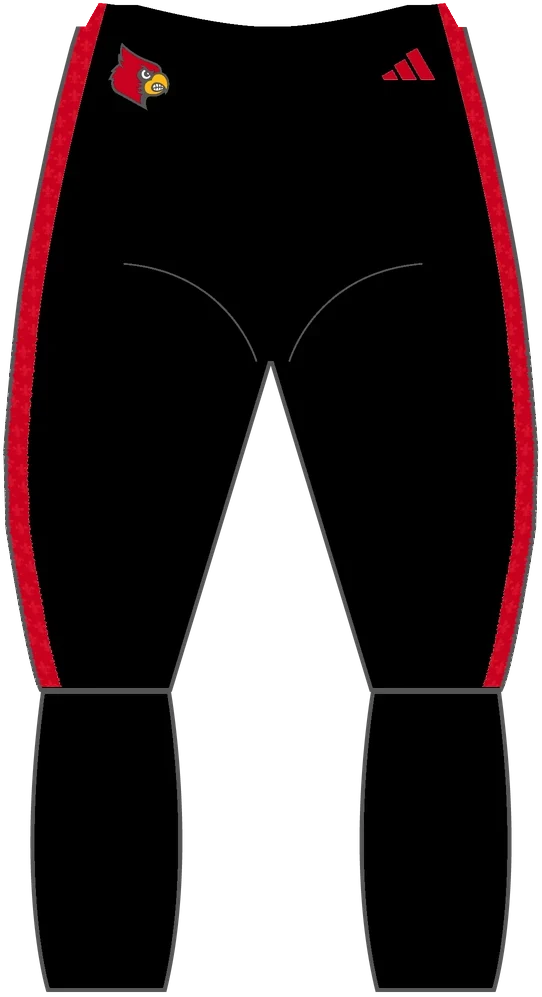
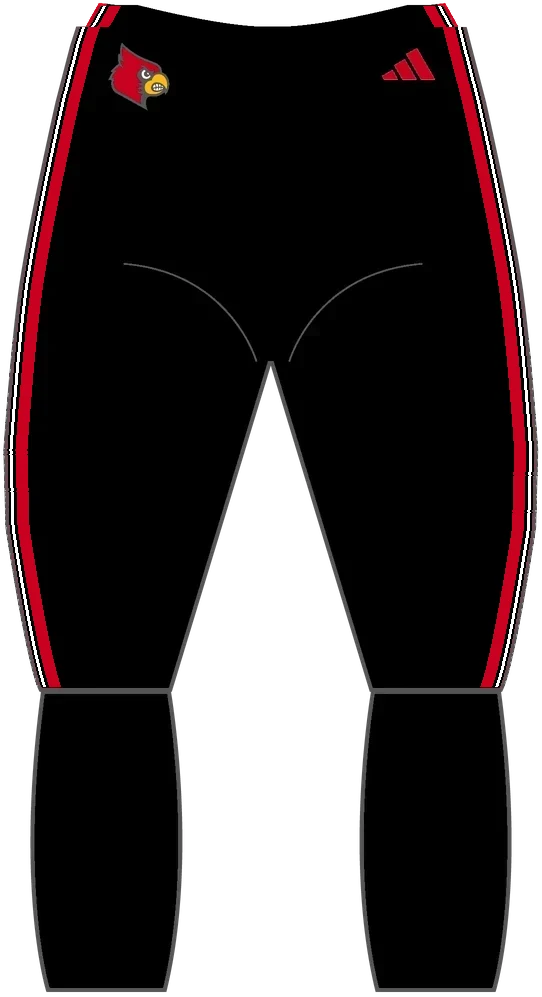
Match the 2026 pant stripes to the game photos
Each 2026 leg carries a thin stripe, a gap of pants color and a wider
stripe, waistband to hem: black and white on red, black and red on white,
white and red on black. Set in BANDS (3D) and redrawn in the panel art by
tools/pants_panels.py.

Claude-Session: https://claude.ai/code/session_01Cn7A5wwhiT3dYtk1tYmEhf

Changed region(s): [[0.7675, 0.0, 1.0, 0.7151], [0.0, 0.0, 0.2362, 0.6841]]

diff --git a/src/uniform-art.js b/src/uniform-art.js
@@ -555,14 +555,14 @@ export const ART = {
    "socks": "#C9001F",
    "bands": [
     {
-     "at": 0.0107,
-     "w": 0.0329,
-     "color": "#FFFFFF"
+     "at": -0.011,
+     "w": 0.01,
+     "color": "#000000"
     },
     {
-     "at": -0.0105,
-     "w": 0.0094,
-     "color": "#000000"
+     "at": 0.024,
+     "w": 0.04,
+     "color": "#FFFFFF"
     }
    ],
    "bandEnd": 1.0,
@@ -577,13 +577,13 @@ export const ART = {
    "socks": "#FFFFFF",
    "bands": [
     {
-     "at": 0.0107,
-     "w": 0.0567,
+     "at": -0.011,
+     "w": 0.01,
      "color": "#000000"
     },
     {
-     "at": 0.0107,
-     "w": 0.0447,
+     "at": 0.024,
+     "w": 0.04,
      "color": "#C9001F"
     }
    ],
@@ -599,14 +599,14 @@ export const ART = {
    "socks": "#000000",
    "bands": [
     {
-     "at": 0.0107,
-     "w": 0.0447,
-     "color": "#C9001F"
+     "at": -0.011,
+     "w": 0.01,
+     "color": "#FFFFFF"
     },
     {
-     "at": -0.0164,
-     "w": 0.0094,
-     "color": "#FFFFFF"
+     "at": 0.024,
+     "w": 0.04,
+     "color": "#C9001F"
     }
    ],
    "bandEnd": 1.0,

diff --git a/tools/pants_panels.py b/tools/pants_panels.py
@@ -1,14 +1,17 @@
 #!/usr/bin/env python3
-"""Run the 2026 pants' side panels down to the hem in the panel art.
+"""Redraw the 2026 pants' side stripes in the panel art to match the field.
 
-The design draws the 2026 side panels stopping partway down the thigh, cut
-at an angle; on the field (and on the 3D player, PANEL_END in
-prepare-uniforms.py) they run the full outside seam, waistband to hem. This
-copies the panel's rows from the thigh, where the drawing has it at full
-width, down the outer edge of each leg to the sock line.
+The design draws the 2026 side panels as one wide stripe that stops partway
+down the thigh, cut at an angle. In Doc's game photos (2026-10-05) each leg
+carries a thin stripe, a gap of pants color, then a wider stripe, running the
+full outside seam from waistband to hem: black and white on red, black and red
+on white, white and red on black. The 3D player draws the same from BANDS and
+PANEL_END in prepare-uniforms.py. This repaints the strip just inside each
+leg's outline, down to the sock line, in that pattern.
 
-prepare-uniforms.py calls extend_panels() for the pants in PANEL_END. Run
-this file directly to patch the WebPs already in assets/uni/:
+prepare-uniforms.py calls draw_panels() for the pants in STRIPES. Run this
+file directly to patch the WebPs already in assets/uni/ (it only overwrites
+the strip, so running it again changes nothing):
 
     python3 tools/pants_panels.py
 
@@ -20,46 +23,58 @@ import numpy as np
 from PIL import Image
 
 ROOT = Path(__file__).resolve().parent.parent
-NAMES = ['pants-red', 'pants-white', 'pants-black']
+# Pants color, thin stripe, wide stripe.
+STRIPES = {
+    'pants-red': ('#C9001F', '#000000', '#FFFFFF'),
+    'pants-white': ('#FFFFFF', '#000000', '#C9001F'),
+    'pants-black': ('#000000', '#FFFFFF', '#C9001F'),
+}
+# Inward from the leg's outer edge, in pixels of the 542 px wide panel art:
+# the outline, a sliver of pants color, the thin stripe, the gap and the wide
+# stripe, then pants color over what is left of the drawn panel.
+WIDTHS = (4, 2, 3, 3, 12, 3)
 
 
-def extend_panels(img):
-    """Returns a copy of the front-view pants art with each side panel
-    continued from the thigh to the sock line."""
+def rgb(h):
+    return np.array([int(h[i:i + 2], 16) for i in (1, 3, 5)], dtype=np.int16)
+
+
+def draw_panels(img, colors):
+    """Returns a copy of the front-view pants art with each side stripe
+    repainted as `colors` (pants, thin, wide), waistband to sock line."""
+    base, thin, wide = (rgb(c) for c in colors)
     a = np.array(img.convert('RGBA')).astype(np.int16)
     h, w = a.shape[:2]
-    base = np.median(a[int(h * 0.12):int(h * 0.25), int(w * 0.42):int(w * 0.58), :3].reshape(-1, 3), axis=0)
-    k = int(w * 0.11)  # strip width copied from the edge inward: outline, panel and some pants color
-    ref = list(range(int(h * 0.26), int(h * 0.34)))  # rows where the drawn panel is full width
+    k = w / 542
+    o, lead, t, g, s, pad = (max(1, round(v * k)) for v in WIDTHS)
+    pattern = [base] * lead + [thin] * t + [base] * g + [wide] * s + [base] * pad
     out = a.copy()
+
+    def edge(y, side):
+        alpha = a[y, :, 3] > 128
+        if not alpha.any():
+            return None
+        return int(np.argmax(alpha)) if side == 1 else w - 1 - int(np.argmax(alpha[::-1]))
+
     for side in (1, -1):
-        def edge(y):
-            alpha = a[y, :, 3] > 128
-            if not alpha.any():
-                return None
-            return int(np.argmax(alpha)) if side == 1 else w - 1 - int(np.argmax(alpha[::-1]))
-
-        def strip(y):
-            x = edge(y)
-            return a[y, x:x + k] if side == 1 else a[y, x - k + 1:x + 1][::-1]
-
-        strips = [strip(y) for y in ref]
         # Sock line: the first row below mid-leg where the pants color gives
         # way to the outline across the leg.
-        probe = int(w * 0.07)
-        sock = next(y for y in range(int(h * 0.6), h) if edge(y) is not None
-                    and np.abs(a[y, edge(y) + side * probe, :3] - base).max() > 40)
-        for i, y in enumerate(range(ref[-1] + 1, sock - 1)):
-            x = edge(y)
-            s = strips[i % len(strips)]
-            cols = np.arange(x, x + k) if side == 1 else np.arange(x, x - k, -1)
-            inside = a[y, cols, 3] > 128
-            out[y, cols[inside]] = s[inside]
+        probe = round(38 * k)
+        sock = next(y for y in range(int(h * 0.6), h) if edge(y, side) is not None
+                    and np.abs(a[y, edge(y, side) + side * probe, :3] - base).max() > 40)
+        for y in range(round(6 * k), sock - 1):
+            x = edge(y, side)
+            if x is None:
+                continue
+            for i, c in enumerate(pattern):
+                xx = x + side * (o + i)
+                if 0 <= xx < w and a[y, xx, 3] > 128:
+                    out[y, xx, :3] = c
     return Image.fromarray(out.clip(0, 255).astype(np.uint8), 'RGBA')
 
 
 if __name__ == '__main__':
-    for name in NAMES:
+    for name, colors in STRIPES.items():
         path = ROOT / 'assets' / 'uni' / f'{name}.webp'
-        extend_panels(Image.open(path)).save(path, 'WEBP', quality=88, method=6)
-        print('extended', path.relative_to(ROOT))
+        draw_panels(Image.open(path), colors).save(path, 'WEBP', quality=88, method=6)
+        print('redrew', path.relative_to(ROOT))

diff --git a/tools/prepare-uniforms.py b/tools/prepare-uniforms.py
@@ -21,8 +21,8 @@ import numpy as np
 from PIL import Image, ImageDraw, ImageFilter
 
 sys.path.insert(0, str(Path(__file__).parent))
-from palette import BLACK, RED, snap  # noqa: E402
-from pants_panels import extend_panels  # noqa: E402
+from palette import BLACK, RED, WHITE, snap  # noqa: E402
+from pants_panels import STRIPES, draw_panels  # noqa: E402
 
 SRC = Path(sys.argv[1] if len(sys.argv) > 1 else 'uni-src')
 ROOT = Path(__file__).resolve().parent.parent
@@ -63,11 +63,17 @@ PANTS = ['pants-red', 'pants-white', 'pants-black', 'pants-red-script', 'pants-w
 # bottom of the pants, when game photos disagree with the drawing: the 2026
 # stripes run the full outside seam, waistband to hem (1.0 = no cut).
 PANEL_END = {'pants-red': 1.0, 'pants-white': 1.0, 'pants-black': 1.0}
-# Stripes set by hand instead of read from the art: Doc's red stripe with a
-# thin black edge on both sides for the white 2026 pants (meters; drawn in
-# order, so the black band sits under the red one).
-BANDS = {'pants-white': [{'at': 0.0107, 'w': 0.0567, 'color': BLACK},
-                         {'at': 0.0107, 'w': 0.0447, 'color': RED}]}
+# Stripes set by hand instead of read from the art (meters from the outer
+# seam, + toward the front): the 2026 pants carry a thin stripe, a gap of
+# pants color, then a wider stripe in front of it (black and white on red,
+# black and red on white, white and red on black), as in Doc's game photos
+# (2026-10-05).
+BANDS = {'pants-red': [{'at': -0.011, 'w': 0.01, 'color': BLACK},
+                       {'at': 0.024, 'w': 0.04, 'color': WHITE}],
+         'pants-white': [{'at': -0.011, 'w': 0.01, 'color': BLACK},
+                         {'at': 0.024, 'w': 0.04, 'color': RED}],
+         'pants-black': [{'at': -0.011, 'w': 0.01, 'color': WHITE},
+                         {'at': 0.024, 'w': 0.04, 'color': RED}]}
 SOCKS = ['socks-red', 'socks-white', 'socks-black', 'socks-gray',
          'socks-red-20', 'socks-white-20', 'socks-black-20', 'socks-gray-20']
 SHOES = ['shoes-black', 'shoes-white', 'shoes-red', 'shoes-gray']
@@ -288,8 +294,8 @@ for name in PANTS:
     cand = drop_edge_components(cand, edge_band(a, 14))
     logos = cutout(a, base, cand, 50).crop((0, 0, w, 600))
     save_webp(logos, f'logos-{name}', 542, quality=90)
-    # The panel art matches the 3D: full-length panels where PANEL_END says so.
-    save_webp(extend_panels(img) if PANEL_END.get(name) == 1.0 else img, name, 542)
+    # The panel art matches the 3D: the 2026 stripes as on the field.
+    save_webp(draw_panels(img, STRIPES[name]) if name in STRIPES else img, name, 542)
     spec['pants'][name] = {
         'base': hexof(base), 'socks': hexof(socks), 'bands': bands, 'bandEnd': band_end,
         'logos': f'logos-{name}', 'logoArt': {'width': w, 'height': 600},
